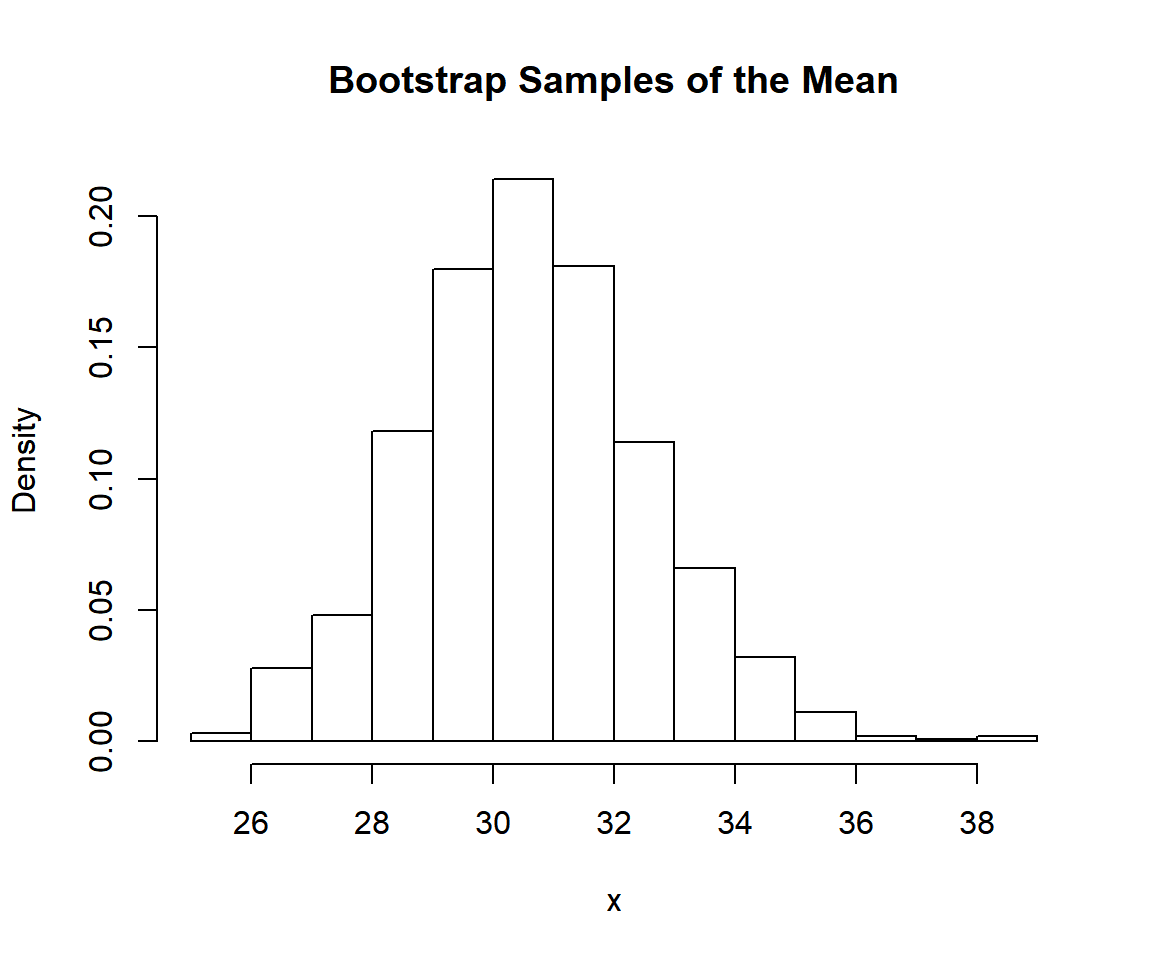
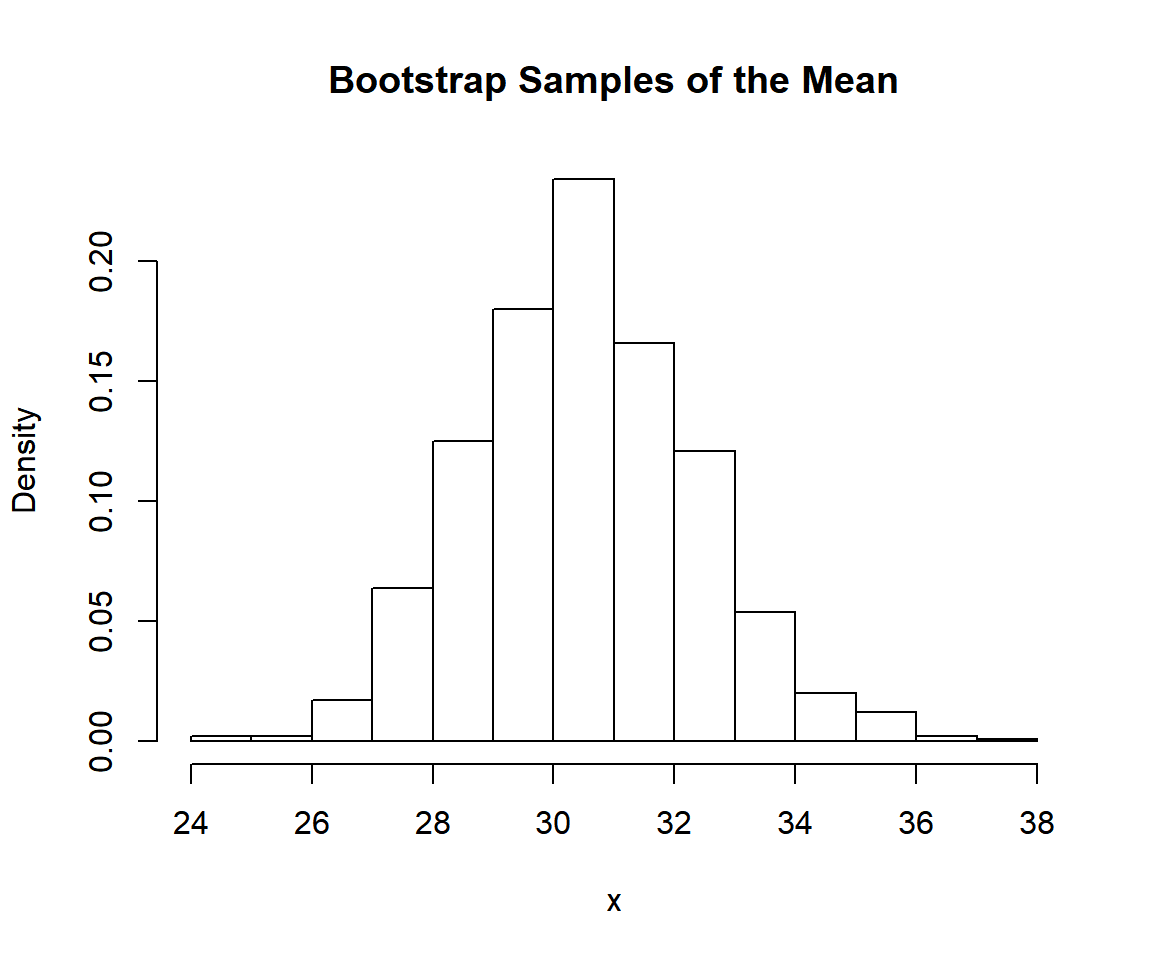
:docs: Docs update.

diff --git a/docs/articles/overview.html b/docs/articles/overview.html
@@ -204,12 +204,12 @@
 <div class="sourceCode" id="cb12"><pre class="sourceCode r"><code class="sourceCode r"><a class="sourceLine" id="cb12-1" title="1"><span class="co"># Calculate two-sided 95% confidence intervals for the two Gumbel parameters.</span></a>
 <a class="sourceLine" id="cb12-2" title="2"><span class="kw"><a href="../reference/bootstrapml.html">bootstrapml</a></span>(<span class="kw"><a href="../reference/mlweibull.html">mlweibull</a></span>(egypt<span class="op">$</span>age)) <span class="co"># same as confint(mlweibull(egypt$age))</span></a></code></pre></div>
 <pre><code>##            2.5%     97.5%
-## shape  1.242705  1.603914
-## scale 29.349965 37.637655</code></pre>
+## shape  1.247017  1.619317
+## scale 29.619163 37.637959</code></pre>
 <div class="sourceCode" id="cb14"><pre class="sourceCode r"><code class="sourceCode r"><a class="sourceLine" id="cb14-1" title="1"><span class="kw"><a href="../reference/bootstrapml.html">bootstrapml</a></span>(<span class="kw"><a href="../reference/mlgamma.html">mlgamma</a></span>(egypt<span class="op">$</span>age))</a></code></pre></div>
-<pre><code>##            2.5%      97.5%
-## shape 1.3316448 2.01518210
-## rate  0.0414308 0.06849029</code></pre>
+<pre><code>##             2.5%      97.5%
+## shape 1.33779098 2.02867519
+## rate  0.04199794 0.06907014</code></pre>
 <p>These confidence intervals are not directly comparable. That is, the <code>scale</code> parameter in the Weibull model is not directly comparable to the <code>rate</code> parameter in the gamma model. So let us take a look at a a parameter with a familiar interpretation, namely the mean.</p>
 <p>The mean of the Weibull distribution with parameters <code>shape</code> and <code>scale</code> is <code>scale*gamma(1 + 1/shape)</code>. On the other hand, the mean of the Gamma distribution with parameters <code>shape</code> and <code>rate</code> is <code>shape/rate</code>.</p>
 <p>The <code>probs</code> argument can be used to modify the limits of confidence interval. Now we will calculate two 90% confidence intervals for the mean.</p>
@@ -218,25 +218,25 @@
 <a class="sourceLine" id="cb16-3" title="3">            <span class="dt">map =</span> <span class="cf">function</span>(x) x[<span class="dv">2</span>]<span class="op">*</span><span class="kw"><a href="https://rdrr.io/r/base/Special.html">gamma</a></span>(<span class="dv">1</span> <span class="op">+</span><span class="st"> </span><span class="dv">1</span><span class="op">/</span>x[<span class="dv">1</span>]), </a>
 <a class="sourceLine" id="cb16-4" title="4">            <span class="dt">probs =</span> <span class="kw"><a href="https://rdrr.io/r/base/c.html">c</a></span>(<span class="fl">0.05</span>, <span class="fl">0.95</span>))</a></code></pre></div>
 <pre><code>##       5%      95% 
-## 27.49581 33.74289</code></pre>
+## 27.56712 33.53905</code></pre>
 <div class="sourceCode" id="cb18"><pre class="sourceCode r"><code class="sourceCode r"><a class="sourceLine" id="cb18-1" title="1"><span class="co"># Calculate two-sided 90% confidence intervals for the mean of a Gamma.</span></a>
 <a class="sourceLine" id="cb18-2" title="2"><span class="kw"><a href="../reference/bootstrapml.html">bootstrapml</a></span>(<span class="kw"><a href="../reference/mlgamma.html">mlgamma</a></span>(egypt<span class="op">$</span>age), </a>
 <a class="sourceLine" id="cb18-3" title="3">            <span class="dt">map =</span> <span class="cf">function</span>(x) x[<span class="dv">1</span>]<span class="op">/</span>x[<span class="dv">2</span>],</a>
 <a class="sourceLine" id="cb18-4" title="4">            <span class="dt">probs =</span> <span class="kw"><a href="https://rdrr.io/r/base/c.html">c</a></span>(<span class="fl">0.05</span>, <span class="fl">0.95</span>))</a></code></pre></div>
 <pre><code>##       5%      95% 
-## 27.57080 33.94806</code></pre>
+## 27.43645 33.97557</code></pre>
 <p>We are be interested in the quantiles of the underlying distribution, for instance the median:</p>
 <div class="sourceCode" id="cb20"><pre class="sourceCode r"><code class="sourceCode r"><a class="sourceLine" id="cb20-1" title="1"><span class="co"># Calculate two-sided 90% confidence intervals for the two Gumbel parameters.</span></a>
 <a class="sourceLine" id="cb20-2" title="2"><span class="kw"><a href="../reference/bootstrapml.html">bootstrapml</a></span>(<span class="kw"><a href="../reference/mlweibull.html">mlweibull</a></span>(egypt<span class="op">$</span>age), </a>
 <a class="sourceLine" id="cb20-3" title="3">            <span class="dt">map =</span> <span class="cf">function</span>(x) <span class="kw"><a href="https://rdrr.io/r/stats/Weibull.html">qweibull</a></span>(<span class="fl">0.5</span>, x[<span class="dv">1</span>], x[<span class="dv">2</span>]), </a>
 <a class="sourceLine" id="cb20-4" title="4">            <span class="dt">probs =</span> <span class="kw"><a href="https://rdrr.io/r/base/c.html">c</a></span>(<span class="fl">0.05</span>, <span class="fl">0.95</span>))</a></code></pre></div>
 <pre><code>##       5%      95% 
-## 22.76717 29.04699</code></pre>
+## 22.94221 28.99996</code></pre>
 <div class="sourceCode" id="cb22"><pre class="sourceCode r"><code class="sourceCode r"><a class="sourceLine" id="cb22-1" title="1"><span class="kw"><a href="../reference/bootstrapml.html">bootstrapml</a></span>(<span class="kw"><a href="../reference/mlgamma.html">mlgamma</a></span>(egypt<span class="op">$</span>age), </a>
 <a class="sourceLine" id="cb22-2" title="2">            <span class="dt">map =</span> <span class="cf">function</span>(x) <span class="kw"><a href="https://rdrr.io/r/stats/GammaDist.html">qgamma</a></span>(<span class="fl">0.5</span>, x[<span class="dv">1</span>], x[<span class="dv">2</span>]), </a>
 <a class="sourceLine" id="cb22-3" title="3">            <span class="dt">probs =</span> <span class="kw"><a href="https://rdrr.io/r/base/c.html">c</a></span>(<span class="fl">0.05</span>, <span class="fl">0.95</span>))</a></code></pre></div>
 <pre><code>##       5%      95% 
-## 21.98605 27.53830</code></pre>
+## 21.78457 27.67686</code></pre>
 <p>We can also plot the bootstrap samples.</p>
 <div class="sourceCode" id="cb24"><pre class="sourceCode r"><code class="sourceCode r"><a class="sourceLine" id="cb24-1" title="1"><span class="kw"><a href="https://rdrr.io/r/graphics/hist.html">hist</a></span>(<span class="kw"><a href="../reference/bootstrapml.html">bootstrapml</a></span>(<span class="kw"><a href="../reference/mlweibull.html">mlweibull</a></span>(egypt<span class="op">$</span>age), </a>
 <a class="sourceLine" id="cb24-2" title="2">                 <span class="dt">map =</span> <span class="cf">function</span>(x) x[<span class="dv">2</span>]<span class="op">*</span><span class="kw"><a href="https://rdrr.io/r/base/Special.html">gamma</a></span>(<span class="dv">1</span> <span class="op">+</span><span class="st"> </span><span class="dv">1</span><span class="op">/</span>x[<span class="dv">1</span>]), </a>

diff --git a/README.md b/README.md
@@ -26,7 +26,7 @@ through the parametric bootstrap with `bootstrapml`.
 
 ## Installation
 
-From inside `R`, use the following command:
+Use the following command from inside `R`:
 
 ``` r
 # install.packages("devtools")
@@ -35,7 +35,7 @@ devtools::install_github("JonasMoss/univariateML")
 
 ## Usage
 
-The core of `univariateML` are the `ml***` functions, where `****` is a
+The core of `univariateML` are the `ml***` functions, where `***` is a
 distribution suffix such as `norm`, `gamma`, or `weibull`.
 
 ``` r
@@ -78,4 +78,4 @@ likelihood estimator to this package please read [this page
 first](https://github.com/JonasMoss/univariateML/wiki/Adding-New-Densities).
 
 This project follows a [Contributor Code of
-Conduct](/code-of-conduct.md).
+Conduct](/CODE-OF-CONDUCT.md).
